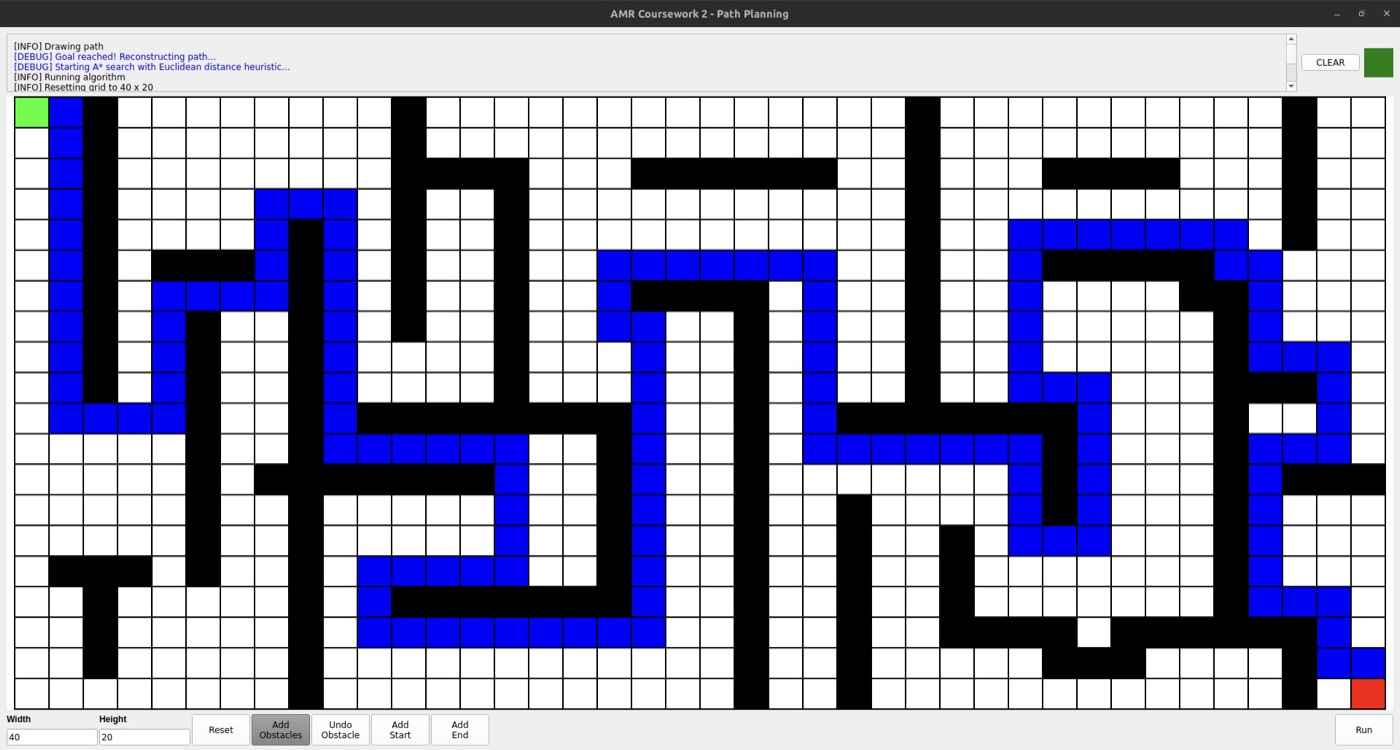
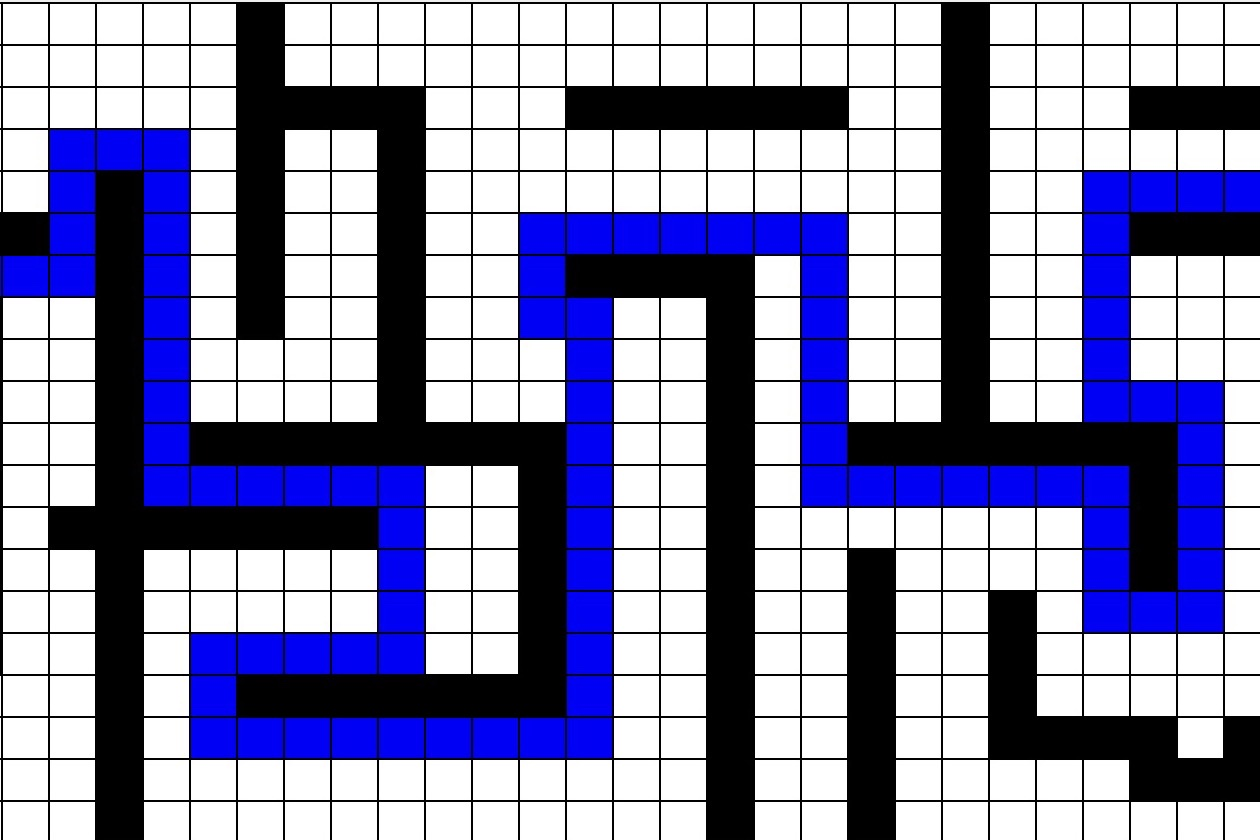
Tidy project images and pages
Use the report's Standard Model chart, a tighter crop of the neutron
paths and the A* grid, the SDG 11 icon, and a full-bleed editor for the
code image. Drop the figures from project pages and put the links above
the embedded PDFs and videos so the artefact is easy to reach.

diff --git a/credits.html b/credits.html
@@ -47,9 +47,9 @@
     <li><strong>The Whitworth Building arch, University of Manchester</strong> (MSc): photograph © The University of Manchester.</li>
     <li><strong>Ernest Rutherford’s laboratory at the University of Manchester, c. 1910</strong> (BSc): photographer unknown, public domain.</li>
     <li><strong>Leo Rover</strong>: Oracle96, <a href="https://creativecommons.org/licenses/by-sa/4.0">CC BY-SA 4.0</a>, via <a href="https://commons.wikimedia.org/wiki/File:Leo-Rover.jpg">Wikimedia Commons</a>.</li>
-    <li><strong>Sustainable Development Goals wheel</strong>: the United Nations, used to refer to the goals.</li>
+    <li><strong>Sustainable Development Goal 11 icon</strong>: the United Nations, used to refer to the goal.</li>
     <li><strong>Logos</strong> belong to the Safe AI Forum, the Centre for Effective Altruism, Effective Altruism Manchester, the Corrie Hotel, BlueDot Impact and Giving What We Can, and are used to link to them.</li>
-    <li><strong>Everything else</strong> (the warehouse render, Grad-CAM figure, path planner, code, lidar scan, Standard Model table and neutron paths) is my own work.</li>
+    <li><strong>Everything else</strong> (the warehouse render, Grad-CAM figure, path planner, code, lidar scan and neutron paths) is my own work. The Standard Model chart is the one reproduced in my particle catalogue report.</li>
     <li><strong>Icons</strong>: <a href="https://simpleicons.org">Simple Icons</a> (CC0). <strong>Type</strong>: Inter Tight and JetBrains Mono, via Google Fonts.</li>
   </ul>
 </article>

diff --git a/index.html b/index.html
@@ -134,7 +134,7 @@
       <span class="when mono">BlueDot Impact · 2026</span>
     </a>
     <a class="card" href="portfolio/sdg_project.html">
-      <img class="contain" style="background:#ffffff;--pad:12%" src="assets/img/sdg-wheel.png" alt="">
+      <img class="contain" style="background:#fd9d24;--pad:0%" src="assets/img/sdg11.png" alt="">
       <h3>Robotics for sustainable cities</h3>
       <p>A talk on where robots can help with the UN’s eleventh Sustainable Development Goal.</p>
       <span class="when mono">Talk · MSc · 2024</span>
@@ -158,13 +158,13 @@
       <span class="when mono">BSc project · 2024</span>
     </a>
     <a class="card" href="portfolio/particle_catalogue.html">
-      <img src="assets/img/standard-model.svg" alt="">
+      <img class="contain" style="background:#ffffff;--pad:5%" src="assets/img/standard-model.jpg" alt="">
       <h3>Particle catalogue</h3>
       <p>The Standard Model as an object-oriented C++ codebase.</p>
       <span class="when mono">C++ · BSc</span>
     </a>
     <a class="card" href="portfolio/neutron_scattering.html">
-      <img src="assets/img/neutron.jpg" alt="">
+      <img src="assets/img/neutron.png" alt="">
       <h3>Neutron scattering</h3>
       <p>Monte Carlo transport of neutrons through shielding materials.</p>
       <span class="when mono">Computational physics · BSc</span>

diff --git a/portfolio/cognitive_robotics_cv.html b/portfolio/cognitive_robotics_cv.html
@@ -42,11 +42,11 @@
   <h1>Robotic object classification: deep learning vs local features</h1>
   <p class="meta mono small">Coursework · MSc Robotics</p>
   <p class="lede">Deep-learning pipelines against local-feature ones on the same set of household objects, with Grad-CAM to see what the networks were actually looking at.</p>
-  <figure class="figure"><img src="../assets/img/gradcam.jpg" alt="Grad-CAM heatmap over a hand holding a computer mouse"></figure>
-  <iframe class="embed" src="10818421_cognitive_robotics_and_computer_vision_assignment.pdf" title="Report"></iframe>
   <ul class="links">
     <li><a href="10818421_cognitive_robotics_and_computer_vision_assignment.pdf">Report (PDF)</a></li>
   </ul>
+
+  <iframe class="embed" src="10818421_cognitive_robotics_and_computer_vision_assignment.pdf" title="Report"></iframe>
 </article>
 
 <footer class="foot mono small">

diff --git a/portfolio/msc_dissertation.html b/portfolio/msc_dissertation.html
@@ -42,11 +42,11 @@
   <h1>Corroborative verification and validation of an autonomous warehouse inspection robot</h1>
   <p class="meta mono small">MSc Robotics dissertation · University of Manchester · 2025</p>
   <p class="lede">High-fidelity simulation combined with probabilistic model checking, to test both how well a warehouse inspection robot performs and how it behaves when safety matters.</p>
-  <figure class="figure"><img src="../assets/img/warehouse-robot.jpg" alt="Simulated warehouse with the inspection robot"></figure>
-  <iframe class="embed" src="10818421.pdf" title="Dissertation"></iframe>
   <ul class="links">
     <li><a href="10818421.pdf">Dissertation (PDF)</a></li>
   </ul>
+
+  <iframe class="embed" src="10818421.pdf" title="Dissertation"></iframe>
 </article>
 
 <footer class="foot mono small">

diff --git a/portfolio/dia_microlensing.html b/portfolio/dia_microlensing.html
@@ -42,10 +42,11 @@
   <h1>Difference-image photometry and gravitational microlensing</h1>
   <p class="meta mono small">BSc Physics project</p>
   <p class="lede">Hunting for microlensing events and novae in the Andromeda Galaxy with difference image analysis on archival Angstrom Project data.</p>
-  <iframe class="embed" src="dia_microlensing.pdf" title="Report"></iframe>
   <ul class="links">
     <li><a href="dia_microlensing.pdf">Report (PDF)</a></li>
   </ul>
+
+  <iframe class="embed" src="dia_microlensing.pdf" title="Report"></iframe>
 </article>
 
 <footer class="foot mono small">

diff --git a/portfolio/particle_catalogue.html b/portfolio/particle_catalogue.html
@@ -42,7 +42,6 @@
   <h1>Particle catalogue in C++</h1>
   <p class="meta mono small">Object-oriented programming · BSc Physics</p>
   <p class="lede">The Standard Model as a C++ codebase: a catalogue of the particles, built to show modern object-oriented practice on a physics problem.</p>
-  <figure class="figure"><img src="../assets/img/standard-model.svg" alt="The particles of the Standard Model"></figure>
   <ul class="links">
     <li><a href="https://github.com/EuanBaldwin/cpp-course/blob/main/project-particle-catalogue-EuanBaldwin/report.pdf">Report on GitHub</a></li>
   </ul>

diff --git a/portfolio/neutron_scattering.html b/portfolio/neutron_scattering.html
@@ -42,7 +42,6 @@
   <h1>Neutron scattering simulation</h1>
   <p class="meta mono small">Computational physics · BSc Physics</p>
   <p class="lede">A Monte Carlo simulation of neutrons scattering through shielding materials, in Python, to see how transport depends on the medium.</p>
-  <figure class="figure"><img src="../assets/img/neutron.jpg" alt="Simulated neutron paths through a slab of shielding"></figure>
   <ul class="links">
     <li><a href="https://github.com/EuanBaldwin/computational-physics/blob/main/project3_10818421.ipynb">Notebook on GitHub</a></li>
   </ul>

diff --git a/portfolio/nn_zero_to_hero.html b/portfolio/nn_zero_to_hero.html
@@ -42,7 +42,6 @@
   <h1>Neural Networks: Zero to Hero</h1>
   <p class="meta mono small">Self-directed</p>
   <p class="lede">Andrej Karpathy’s course, worked through from scratch: micrograd, makemore and a small GPT, written without high-level libraries.</p>
-  <figure class="figure"><img src="../assets/img/code.svg" alt="The forward pass of a self-attention head"></figure>
   <ul class="links">
     <li><a href="https://github.com/EuanBaldwin/nn-zero-to-hero">Code on GitHub</a></li>
     <li><a href="https://karpathy.ai/zero-to-hero.html">The course</a></li>

diff --git a/portfolio/technical_ai_safety.html b/portfolio/technical_ai_safety.html
@@ -42,7 +42,6 @@
   <h1>Technical AI safety course</h1>
   <p class="meta mono small">BlueDot Impact · 2026</p>
   <p class="lede">A 30-hour structured overview of technical AI safety with <a href="https://bluedot.org">BlueDot Impact</a>: current techniques, their gaps, threat models and where to contribute.</p>
-  <figure class="figure"><img src="../assets/img/bluedot-certificate.jpg" alt="Certificate for the BlueDot Impact technical AI safety course"></figure>
   <ul class="links">
     <li><a href="https://bluedot.org">BlueDot Impact</a></li>
   </ul>

diff --git a/portfolio/nea.html b/portfolio/nea.html
@@ -42,10 +42,11 @@
   <h1>COVID-19 and deprivation in London</h1>
   <p class="meta mono small">A-level Geography independent investigation</p>
   <p class="lede">Did relative deprivation across Greater London shape both COVID-19 mortality and how people perceived the risk?</p>
-  <iframe class="embed" src="nea.pdf" title="Investigation"></iframe>
   <ul class="links">
     <li><a href="nea.pdf">Investigation (PDF)</a></li>
   </ul>
+
+  <iframe class="embed" src="nea.pdf" title="Investigation"></iframe>
 </article>
 
 <footer class="foot mono small">

diff --git a/portfolio/lhcb.html b/portfolio/lhcb.html
@@ -42,10 +42,11 @@
   <h1>Matter–antimatter asymmetries at the LHC</h1>
   <p class="meta mono small">BSc Physics project</p>
   <p class="lede">CP violation in B-meson decays, analysed in LHCb data from CERN, to probe why the universe has more matter than antimatter.</p>
-  <iframe class="embed" src="lhcb.pdf" title="Report"></iframe>
   <ul class="links">
     <li><a href="lhcb.pdf">Report (PDF)</a></li>
   </ul>
+
+  <iframe class="embed" src="lhcb.pdf" title="Report"></iframe>
 </article>
 
 <footer class="foot mono small">

diff --git a/portfolio/epq.html b/portfolio/epq.html
@@ -42,10 +42,11 @@
   <h1>Gender inequality in physics</h1>
   <p class="meta mono small">Extended Project Qualification · A*</p>
   <p class="lede">The practical case for gender equality in physics: inclusion as a strategic necessity for the field, not only a moral one.</p>
-  <iframe class="embed" src="epq.pdf" title="Report"></iframe>
   <ul class="links">
     <li><a href="epq.pdf">Report (PDF)</a></li>
   </ul>
+
+  <iframe class="embed" src="epq.pdf" title="Report"></iframe>
 </article>
 
 <footer class="foot mono small">
